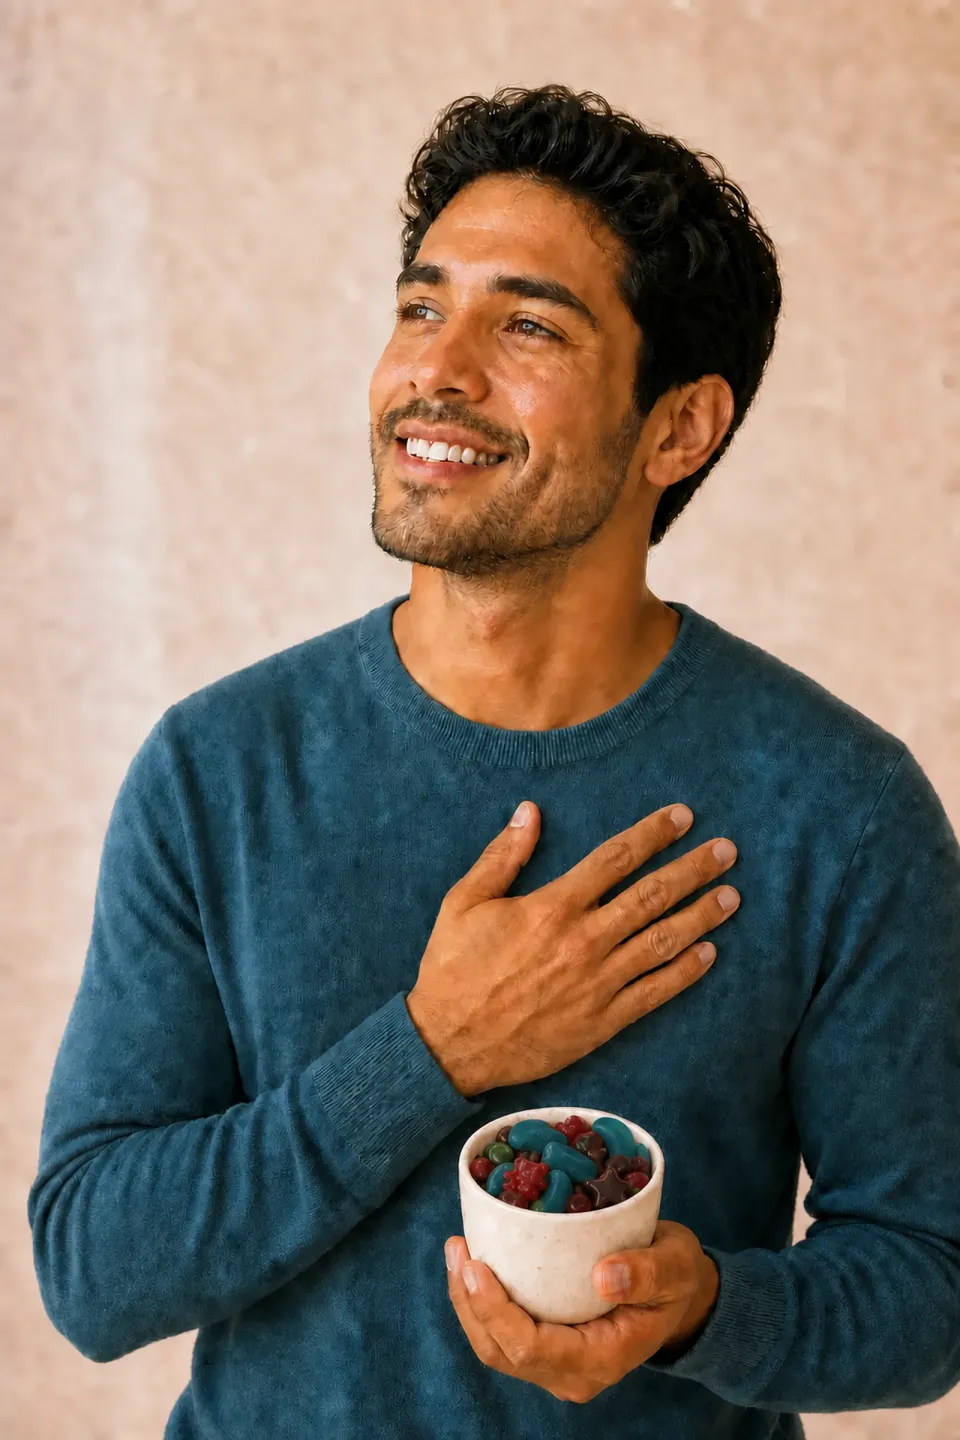
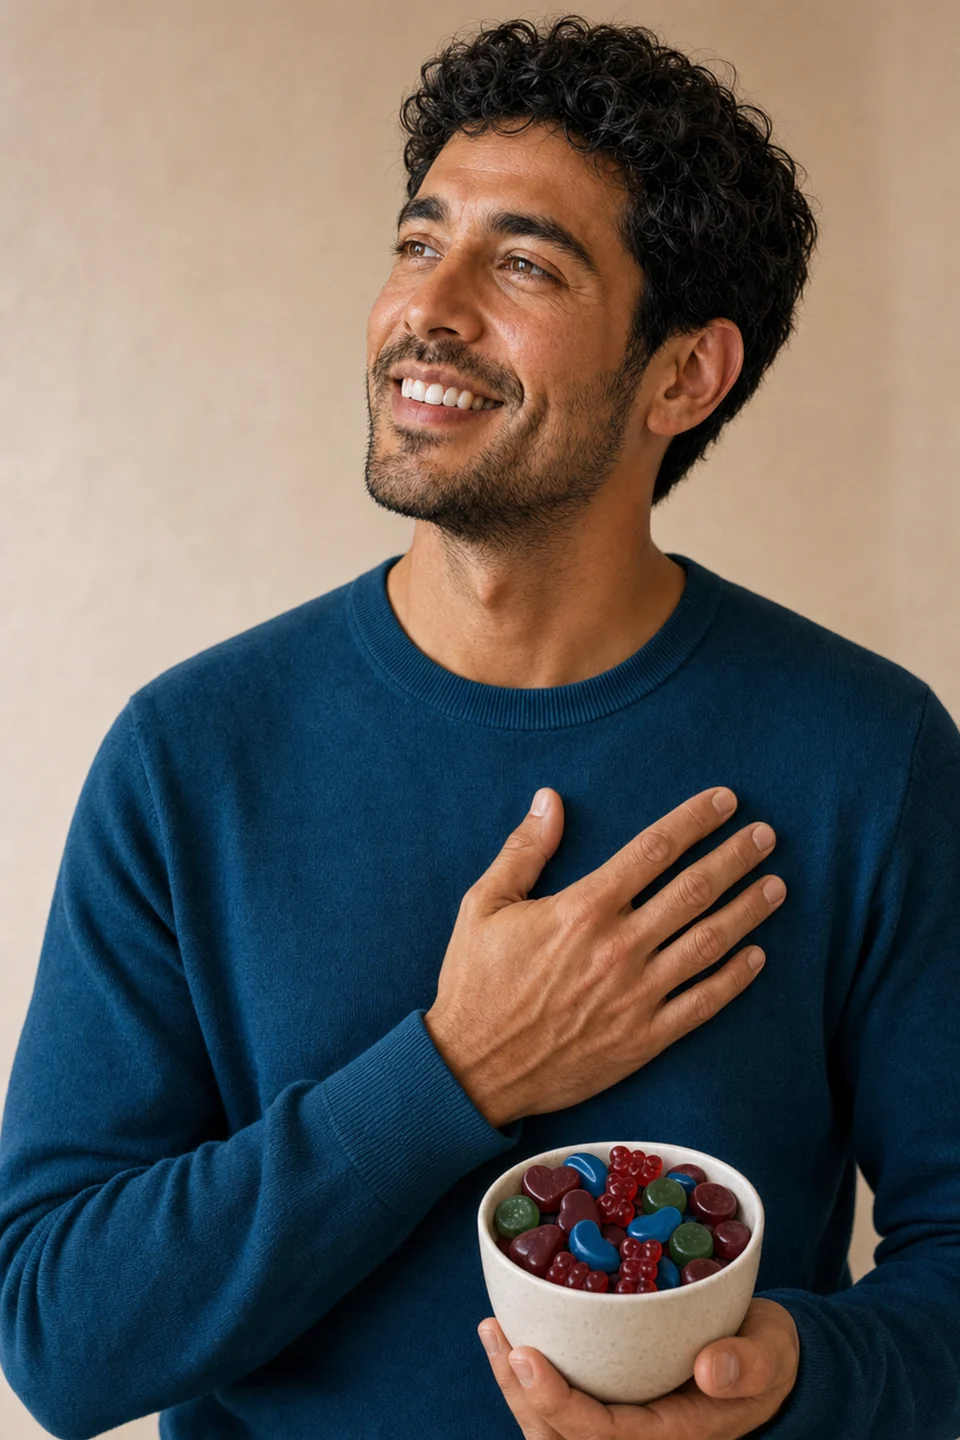
Replace gummy editorial portrait

diff --git a/nosotros.html b/nosotros.html
@@ -112,7 +112,7 @@
           </ul>
         </div>
         <div class="split-media reveal reveal-d1">
-          <img class="cover editorial-focus-gummy" src="assets/img/editorial-gummy-960.webp" srcset="assets/img/editorial-gummy-960.webp 960w, assets/img/editorial-gummy.webp 1600w" sizes="(max-width: 720px) calc(100vw - 32px), 558px" alt="Hombre joven sonriente sosteniendo una taza llena con ositos rojos, medias lunas azules, discos y estrellas de gomita" width="1600" height="2400" loading="lazy" decoding="async">
+          <img class="cover editorial-focus-gummy" src="assets/img/editorial-gummy-960.webp" srcset="assets/img/editorial-gummy-960.webp 960w, assets/img/editorial-gummy.webp 1600w" sizes="(max-width: 720px) calc(100vw - 32px), 558px" alt="Hombre joven sonriente sosteniendo una taza con ositos rojos, medias lunas azules, discos rojos y verdes y corazones borgoña de gomita" width="1600" height="2400" loading="lazy" decoding="async">
         </div>
       </div>
     </section>

diff --git a/assets/img/AI_PROVENANCE.md b/assets/img/AI_PROVENANCE.md
@@ -9,6 +9,6 @@ Las personas y escenas se generaron el 19 de julio de 2026 con la herramienta in
 | `editorial-hair-bite.webp` | Mujer latina con top lavanda, cabello largo y brillante, mordiendo felizmente una gomita translúcida borgoña con forma de oso. |
 | `editorial-skin.webp` | Mujer latina con cabello corto mostrando una gomita azul con forma de media luna en un retrato de belleza. |
 | `editorial-ritual.webp` | Mujer latina cepillando su cabello largo con un cepillo de madera. |
-| `editorial-gummy.webp` | Hombre joven ecuatoriano/latino con top azul petróleo sosteniendo una taza llena de ositos rojo cereza semiópacos, medias lunas teal oscuro semiópacas, discos borgoña y verdes, y estrellas borgoña oscuro. |
+| `editorial-gummy.webp` | Hombre joven latino con top azul petróleo sosteniendo una taza llena de ositos rojo cereza, medias lunas azules, discos borgoña y verdes, y corazones borgoña de gomita. |
 
 Los archivos finales se exportaron a WebP sin metadatos incrustados. Este registro documenta el origen técnico de las imágenes y evita depender de fotografías de stock o de terceros para los modelos humanos del sitio.